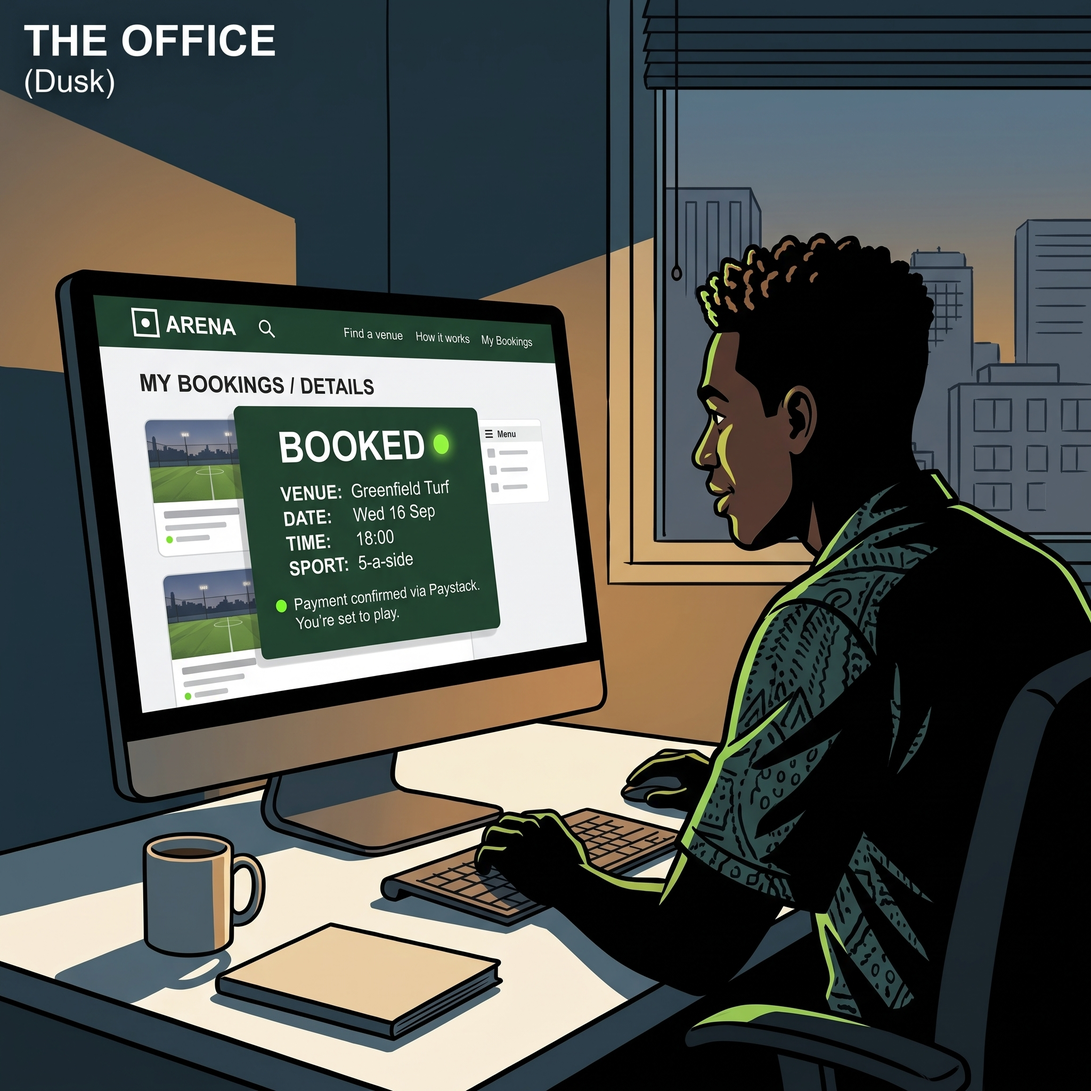
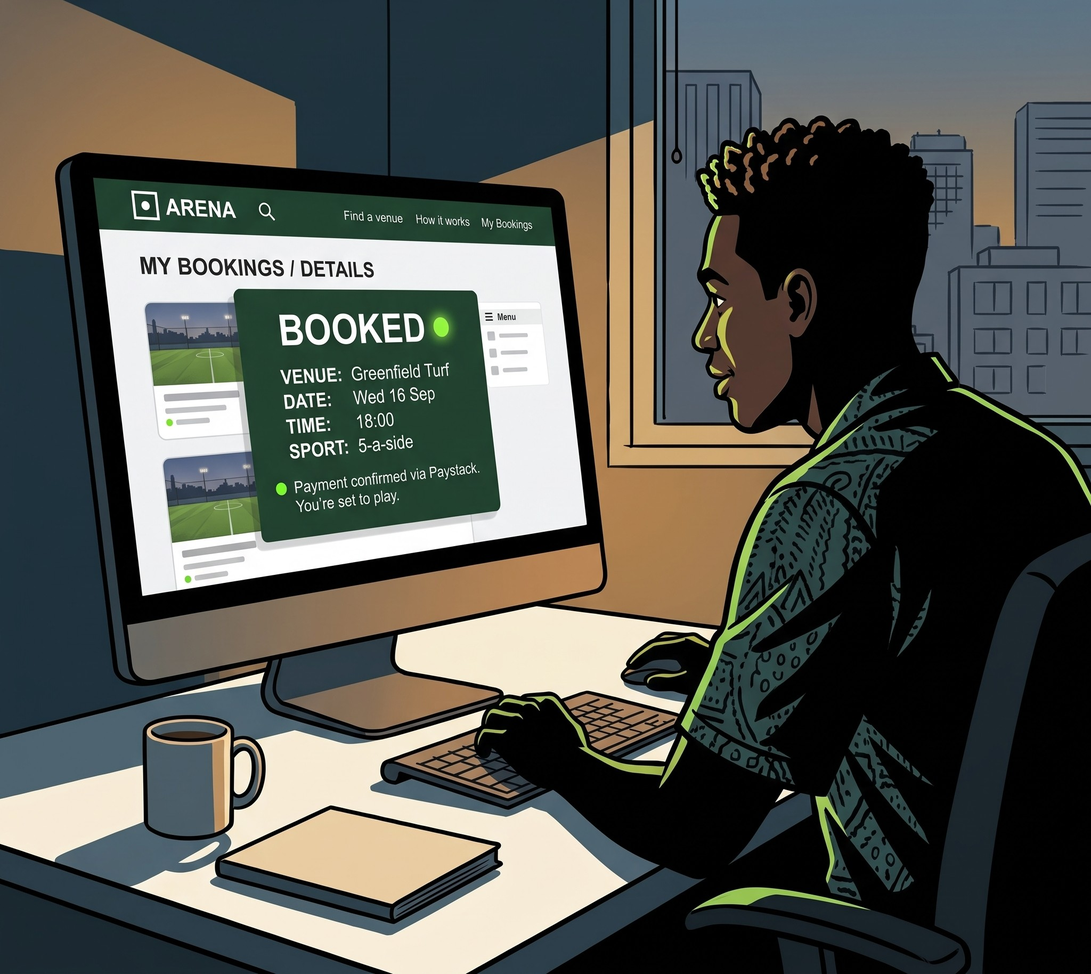
How-it-works scenes as one full-bleed strip; court photos under the board
The three scenes are not cut-outs on the page. They run as one band that
bleeds past the gutter, each panel cover-cropped on its subject and
dissolving into its neighbours and into the page above and below — two
composited mask layers on the image alone, so the timestamps underneath
stay crisp. No frame, no radius, no shadow, no baseline. On phones the
panels stack and dissolve vertically. Scene files are found at build
time by either extension; a full JPG wins over a cut-out PNG. transit is
the cut-out for now and takes the same cover crop so it does not read as
a card; its full scene slots in as transit.jpg.

office.jpg is cropped 220px at the top: the generator baked a caption
there and no cover position kept it out of frame.

The four court photos are live under the availability board. They frame
the whole facility, so the board zooms them 1.45x to the playing surface,
and with a photo underneath the turf scrim lightens to 60/50/78 — the
plane carries the text contrast. Line markings remain the fallback for
any sport without a photo.

Verified at 1440 / 1024 / 768 / 390: lint, typecheck, build; no console
errors, no overflow, every reveal resolves; all four courts and all three
scenes inspected rendered.

Claude-Session: https://claude.ai/code/session_01UGKxQjNjqG3q3m79KebBAr

diff --git a/app/globals.css b/app/globals.css
@@ -406,23 +406,41 @@ html.reveal-ready [data-reveal].on {
   padding-bottom: 20px;
 }
 .how-vignette svg { width: 100%; height: auto; }
-.how-art {
-  position: relative;
-  width: 100%;
-  aspect-ratio: 437 / 260;
-  padding-bottom: 48px; /* art sits on the same baseline as the placeholders */
-  box-sizing: border-box;
+/* The scenes as one band that bleeds past the gutter. Panels dissolve into
+   each other and into the page; nothing frames them. */
+.how-strip { margin-inline: calc(var(--gutter) * -1); }
+.how-triptych {
+  display: grid;
+  grid-template-columns: repeat(3, 1fr);
 }
-.how-art::after {
-  content: "";
+.how-scene { position: relative; height: 440px; padding-bottom: 44px; }
+/* Only the image is masked, on two composited layers: a horizontal dissolve
+   into the neighbours and a vertical one into the page. The caption sits
+   outside the mask, on the faded bottom edge. */
+.how-scene-img {
+  --fade-x: linear-gradient(90deg, transparent 0, #000 14%, #000 86%, transparent 100%);
+  --fade-y: linear-gradient(180deg, transparent 0, #000 16%, #000 78%, transparent 100%);
+  position: absolute;
+  inset: 0;
+  -webkit-mask-image: var(--fade-x), var(--fade-y);
+  -webkit-mask-composite: source-in;
+  mask-image: var(--fade-x), var(--fade-y);
+  mask-composite: intersect;
+}
+.how-scene:first-child .how-scene-img {
+  --fade-x: linear-gradient(90deg, #000 0, #000 86%, transparent 100%);
+}
+.how-scene:last-child .how-scene-img {
+  --fade-x: linear-gradient(90deg, transparent 0, #000 14%, #000 100%);
+}
+.how-scene-cap {
   position: absolute;
   left: 0;
   right: 0;
-  bottom: 48px;
-  height: 1px;
-  background: var(--hair-light);
+  bottom: 6px;
+  text-align: center;
+  color: var(--ink-3);
 }
-.how-art img { bottom: 48px !important; height: auto !important; top: auto !important; max-height: calc(100% - 48px); }
 .how-steps { display: grid; grid-template-columns: repeat(3, 1fr); gap: 32px; }
 
 /* ── Scoreboard ──────────────────────────────────────────────────────────── */
@@ -440,6 +458,12 @@ html.reveal-ready [data-reveal].on {
 /* Photo courts: below the scrim (z 1) and the turf fibres, above the flat colour. */
 .scoreboard-courts { position: absolute; inset: 0; z-index: 0; pointer-events: none; }
 .scoreboard-courts .court { position: absolute; inset: 0; }
+/* The photos frame the whole facility; the board wants the playing surface. */
+.scoreboard-courts img { transform: scale(1.45); transform-origin: 50% 50%; }
+/* With a photo underneath, the turf scrim is too heavy; the plane carries the contrast. */
+.scoreboard:has(.scoreboard-courts .court) .scoreboard-scrim {
+  background: linear-gradient(180deg, rgba(5, 16, 9, 0.6), rgba(5, 16, 9, 0.5) 50%, rgba(5, 16, 9, 0.78)) !important;
+}
 .scoreboard-scrim, .scoreboard-markings {
   position: absolute;
   inset: 0;
@@ -780,6 +804,14 @@ html.reveal-ready [data-reveal].on {
   .sports-list { width: 100%; gap: 26px; }
 
   .how-vignettes { grid-template-columns: 1fr; gap: 12px; }
+  .how-triptych { grid-template-columns: 1fr; mask-image: none; -webkit-mask-image: none; }
+  .how-scene { height: 300px; padding-bottom: 40px; }
+  .how-scene .how-scene-img,
+  .how-scene:first-child .how-scene-img,
+  .how-scene:last-child .how-scene-img {
+    --fade-x: linear-gradient(90deg, #000, #000);
+    --fade-y: linear-gradient(180deg, transparent 0, #000 12%, #000 84%, transparent 100%);
+  }
   .how-steps { grid-template-columns: 1fr; gap: 36px; }
 
   .scoreboard-plane { padding: 6px 8px; min-height: 0; }

diff --git a/components/HowItWorks.tsx b/components/HowItWorks.tsx
@@ -1,6 +1,6 @@
 import Image from "next/image";
 import { HOW } from "@/content/copy";
-import { VIGNETTE_RENDERS, hasRender } from "@/lib/renders";
+import { vignetteRender } from "@/lib/renders";
 import { Reveal } from "./Reveal";
 
 export function HowItWorks() {
@@ -20,9 +20,15 @@ export function HowItWorks() {
         <p className="how-intro">{HOW.intro}</p>
       </Reveal>
 
-      <Reveal delay={100} className="how-panel">
-        <Vignettes />
-      </Reveal>
+      {SCENES ? (
+        <Reveal delay={100} className="how-strip">
+          <Triptych />
+        </Reveal>
+      ) : (
+        <Reveal delay={100} className="how-panel">
+          <Vignettes />
+        </Reveal>
+      )}
 
       <div className="how-steps">
         {HOW.steps.map((s, i) => (
@@ -41,30 +47,51 @@ export function HowItWorks() {
   );
 }
 
+/** Decided at build time: all three scenes present, or none used. */
+const SCENES = (() => {
+  const all = HOW.vignettes.map((_, i) => vignetteRender(i));
+  return all.every((x) => x !== null) ? (all as { src: string; cutout: boolean }[]) : null;
+})();
+
+/** Where each scene's subject sits, so the cover crop keeps it. */
+const FOCUS = ["60% 40%", "50% 58%", "58% 58%"] as const;
+
 /**
- * Three vignettes on one baseline. Each renders its cut-out from
- * public/renders/how/ when the file exists (decided at build time), and the
- * placeholder line-work otherwise. Layout is identical either way.
+ * The three scenes as one full-bleed strip. Each panel is cover-cropped and
+ * dissolves into its neighbours and into the page above and below; no frame,
+ * no baseline. A cut-out (transparent PNG) sits on a dusk wash until its full
+ * scene lands.
  */
+function Triptych() {
+  return (
+    <div className="how-triptych" aria-hidden="true">
+      {SCENES!.map((scene, i) => (
+        <div key={scene.src} className="how-scene" data-cutout={scene.cutout ? "" : undefined}>
+          <div className="how-scene-img">
+            <Image
+              src={`/renders/${scene.src}`}
+              alt=""
+              fill
+              sizes="(max-width: 767px) 100vw, 34vw"
+              quality={72}
+              style={{ objectFit: "cover", objectPosition: FOCUS[i] }}
+            />
+          </div>
+          <span className="colhead vignette-cap how-scene-cap">{HOW.vignettes[i]}</span>
+        </div>
+      ))}
+    </div>
+  );
+}
+
+/** Placeholder line-work, used until all three scenes are in. */
 function Vignettes() {
   return (
     <div className="how-vignettes" aria-hidden="true">
       {HOW.vignettes.map((label, i) => {
-        const file = VIGNETTE_RENDERS[i];
-        const art = file && hasRender(file);
         return (
           <div key={label} className="how-vignette">
-            {art ? (
-              <div className="how-art">
-                <Image
-                  src={`/renders/${file}`}
-                  alt=""
-                  fill
-                  sizes="(max-width: 767px) 100vw, 437px"
-                  style={{ objectFit: "contain", objectPosition: "50% 100%" }}
-                />
-              </div>
-            ) : (
+            {(
               <svg viewBox="0 0 437 260" role="presentation">
                 <g
                   fill="var(--ink)"

diff --git a/lib/renders.ts b/lib/renders.ts
@@ -13,8 +13,17 @@ export function hasRender(file: string): boolean {
 export const HERO_RENDER = "hero-pitch.jpg";
 export const CLOSER_RENDER = "closer-match.jpg";
 
-/** One cut-out per how-it-works step, in step order. Transparent PNGs. */
-export const VIGNETTE_RENDERS = ["how/office.png", "how/transit.png", "how/pitch.png"] as const;
+/** One scene per how-it-works step, in step order. */
+const VIGNETTE_NAMES = ["how/office", "how/transit", "how/pitch"] as const;
+
+/** The scene file for a step: the full JPG when it exists, else a transparent PNG, else null. */
+export function vignetteRender(step: number): { src: string; cutout: boolean } | null {
+  const name = VIGNETTE_NAMES[step];
+  if (!name) return null;
+  if (hasRender(`${name}.jpg`)) return { src: `${name}.jpg`, cutout: false };
+  if (hasRender(`${name}.png`)) return { src: `${name}.png`, cutout: true };
+  return null;
+}
 
 /** One photo per court under the scoreboard, keyed by tab sport. */
 export const COURT_RENDERS = {

diff --git a/next.config.ts b/next.config.ts
@@ -11,8 +11,11 @@ import type { NextConfig } from "next";
 const RENDERS = [
   "hero-pitch.jpg",
   "closer-match.jpg",
+  "how/office.jpg",
   "how/office.png",
+  "how/transit.jpg",
   "how/transit.png",
+  "how/pitch.jpg",
   "how/pitch.png",
   "courts/football.jpg",
   "courts/padel.jpg",
